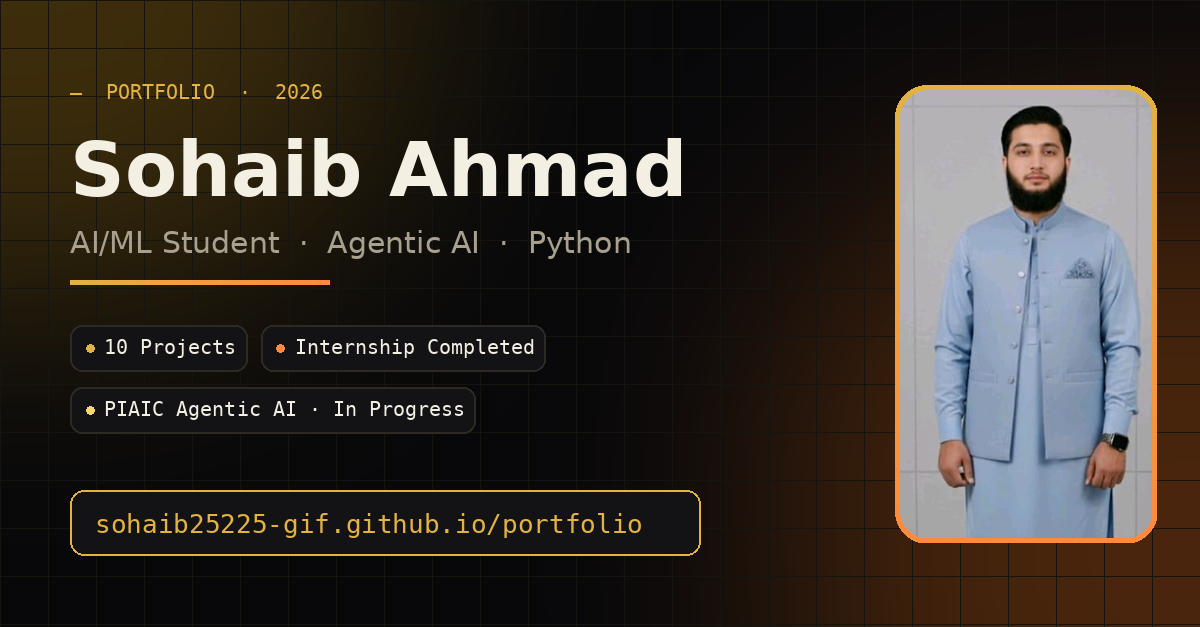
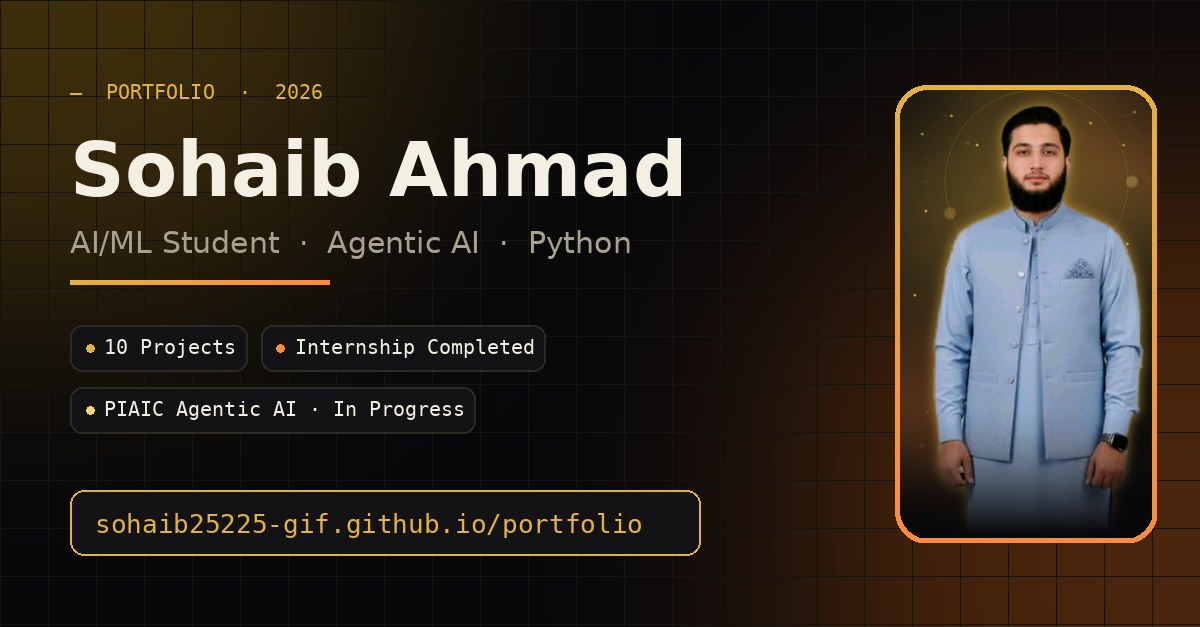
new hero portrait with gold background

Changed region(s): [[0.74, 0.1212, 0.9867, 0.8788]]

diff --git a/index.html b/index.html
@@ -347,7 +347,7 @@
 
     <div class="photo-wrap">
       <div class="photo-glow"></div>
-      <div class="photo-card"><img src="assets/profile-formal.jpg" alt="Sohaib Ahmad, AI Engineering student at Abasyn University"><div class="photo-label"><b>Sohaib Ahmad</b><span>AI Engineering Student</span></div></div>
+      <div class="photo-card"><img src="assets/profile-hero.jpg" alt="Sohaib Ahmad, AI Engineering student at Abasyn University"><div class="photo-label"><b>Sohaib Ahmad</b><span>AI Engineering Student</span></div></div>
       <div class="float-chip fc1"><i style="background:var(--cyan)"></i>Python</div>
       <div class="float-chip fc2"><i style="background:var(--violet)"></i>Agentic AI</div>
       <div class="float-chip fc3"><i style="background:var(--amber)"></i>LLM Apps</div>
